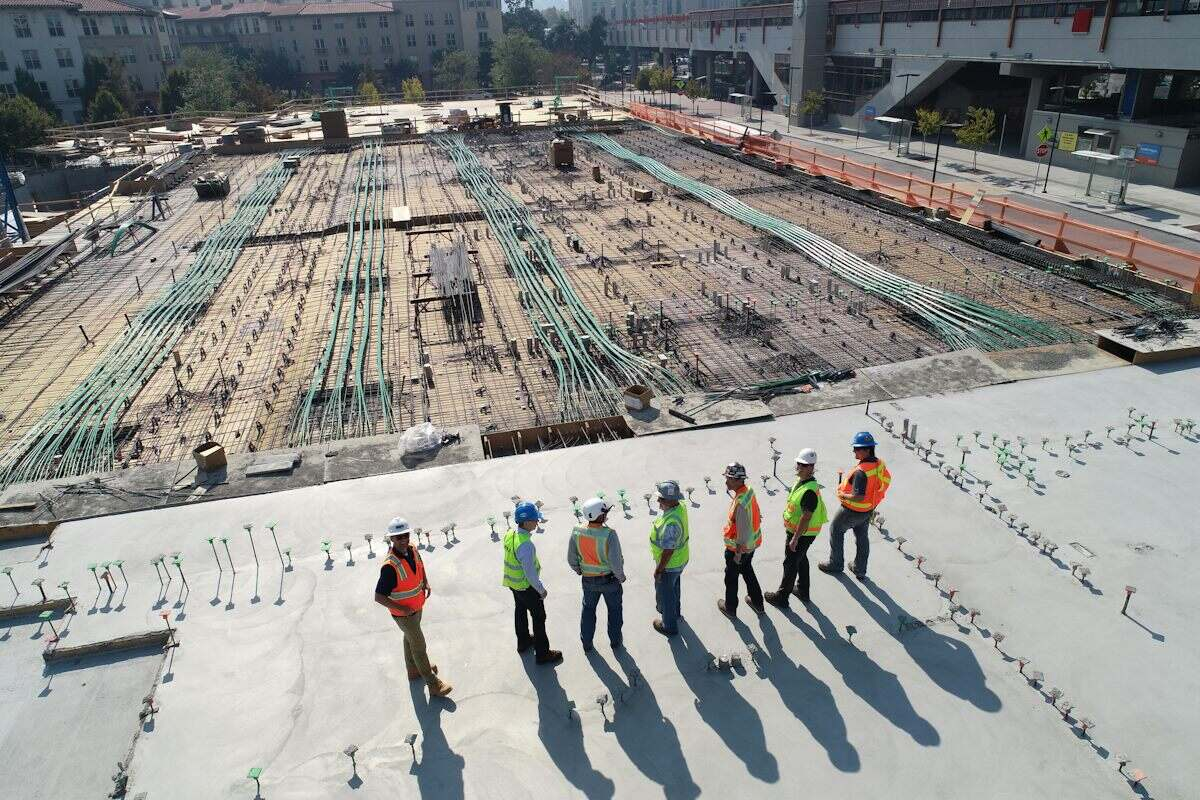
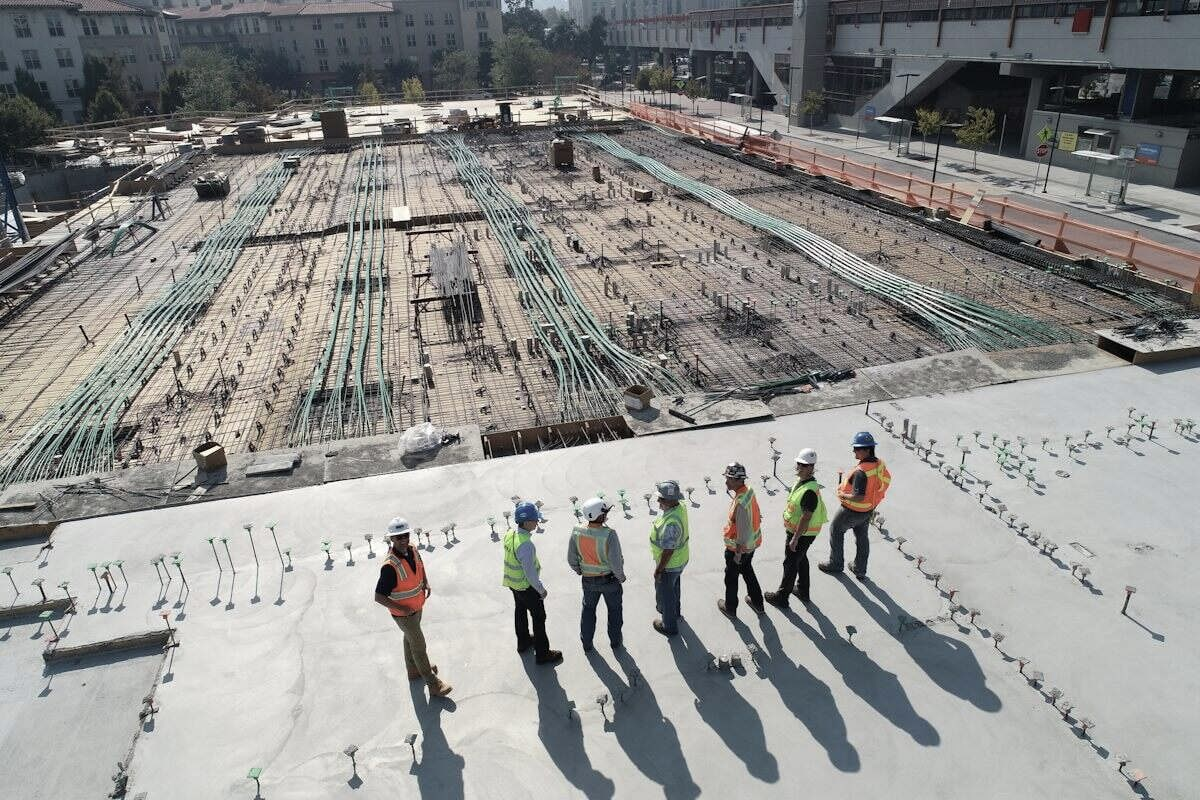
perf(mobile): frame-budget test, header theme by IntersectionObserver, baked saturation, menu without blur
- tests/mobile-perf.mjs (npm run test:perf): six routes at 390×844, CPU ×4, synthetic
  touch drag + fling; fails on site rAF/scroll callbacks during the gesture, p95 frame
  interval > 20 ms, long tasks, forced layouts, motion libraries requested or first-party
  JS > 10 KB gzip. Replaces tests/putnam-performance.mjs.
- menu.ts: header theme resolved by an IntersectionObserver band instead of
  getBoundingClientRect on every scroll event.
- Unsplash images carry `sat=` in the URL and the local hero JPGs are desaturated with
  sharp; every full-screen CSS `filter` is gone (map iframe keeps it on desktop only).
- Mobile menu overlay: opaque paper background instead of backdrop-filter blur.

diff --git a/src/styles/putnam.css b/src/styles/putnam.css
@@ -36,7 +36,7 @@
 .motion-pending .institutional-hero :is(.section-kicker, h1, .hero-lead) { opacity: 0; visibility: hidden; }
 .hero-frame { position: absolute; z-index: -2; inset: 0; width: 100%; height: 100%; margin: 0; overflow: hidden; background: var(--putnam-deep); contain: paint; }
 .hero-frame::after { position: absolute; inset: 0; content: ''; background: linear-gradient(180deg, rgba(0, 25, 23, 0.28) 0%, transparent 42%, rgba(0, 25, 23, 0.82) 100%), linear-gradient(90deg, rgba(0, 25, 23, 0.28), transparent 64%); }
-.hero-frame img { width: 100%; height: 115%; object-fit: cover; filter: saturate(0.65) sepia(0.08); transform: scale(1.02); backface-visibility: hidden; }
+.hero-frame img { width: 100%; height: 115%; object-fit: cover; transform: scale(1.02); backface-visibility: hidden; }
 .hero-index { display: inline-flex; min-height: 2.75rem; margin-top: 1rem; padding: 0; align-items: center; gap: 1.2rem; color: var(--putnam-paper); font-size: 0.68rem; letter-spacing: 0.11em; text-transform: uppercase; }
 .hero-index span { transition: transform 180ms ease; }
 .hero-index:hover span { transform: translateX(0.2rem); }
@@ -50,7 +50,7 @@
 .process-visual { position: absolute; z-index: 0; top: 7rem; right: clamp(1.25rem, 3vw, 3.5rem); bottom: 2rem; left: clamp(1.25rem, 3vw, 3.5rem); width: auto; overflow: hidden; background: var(--putnam-sand); }
 .process-media { position: absolute; inset: 0; margin: 0; opacity: 0; visibility: hidden; transition: opacity 500ms ease, visibility 500ms ease; }
 .process-media.is-active { opacity: 1; visibility: visible; }
-.process-media img { width: 100%; height: 100%; object-fit: cover; filter: saturate(0.62); }
+.process-media img { width: 100%; height: 100%; object-fit: cover; }
 .process-shade { position: absolute; z-index: 1; inset: 0; background: linear-gradient(90deg, rgba(0, 42, 39, 0.78) 0%, rgba(0, 42, 39, 0.48) 38%, transparent 70%), linear-gradient(180deg, transparent 62%, rgba(0, 42, 39, 0.32)); }
 .media-placeholder { display: grid; width: 100%; height: 100%; padding: 2rem; align-content: space-between; color: rgba(0, 58, 54, 0.72); background: var(--putnam-sand); }
 .media-placeholder span, .media-placeholder small { font-size: 0.68rem; font-weight: 500; letter-spacing: 0.14em; text-transform: uppercase; }
@@ -66,7 +66,6 @@
 .process-rail span { display: block; width: 100%; height: 2px; background: var(--putnam-paper); transform: scaleX(0); transform-origin: left center; }
 .process-markers { position: relative; margin-top: -100dvh; pointer-events: none; }
 .process-marker { height: 100dvh; }
-
 .principles { display: grid; grid-template-columns: repeat(12, minmax(0, 1fr)); gap: 2rem; padding: 8rem clamp(1.25rem, 3vw, 3.5rem) 9rem; color: var(--putnam-paper); background: var(--putnam-deep); }
 .principles > .section-kicker { grid-column: 1 / 4; }
 .principle { border-top: 1px solid rgba(244, 238, 223, 0.28); }
@@ -120,7 +119,7 @@
   .hero-lead { width: min(28rem, 92%); }
   .hero-index { margin-top: 1rem; }
   .hero-frame { position: absolute; inset: 0; width: 100%; height: 100%; margin: 0; }
-  .hero-frame img { height: 100%; filter: none; transform: none; }
+  .hero-frame img { height: 100%; transform: none; }
   .structural-line--hero { right: 14%; bottom: 17rem; left: -2rem; transform: rotate(-9deg); }
   .process-stage, .process-marker { height: 100dvh; }
   .process-markers { margin-top: -100dvh; }
@@ -129,7 +128,6 @@
   .process-heading h2 { max-width: 25rem; font-size: clamp(3rem, 14vw, 4.8rem); }
   .process-visual { top: 9rem; right: 1rem; bottom: 42%; left: 1rem; width: auto; }
   .process-media { transition-duration: 220ms; }
-  .process-media img { filter: none; }
   .process-shade { display: none; }
   .process-overlays { top: auto; right: 1rem; bottom: 5.5rem; left: 1rem; width: auto; color: var(--putnam-deep); transform: none; }
   .process-step { grid-template-columns: 2.8rem minmax(0, 1fr); }
@@ -161,3 +159,4 @@
 @media (prefers-reduced-motion: reduce) {
   .putnam-page [data-parallax], .putnam-page [data-reveal-group], .putnam-page [data-process-step], .putnam-page [data-line-progress] { transform: none !important; opacity: 1 !important; }
 }
+

diff --git a/src/scripts/menu.ts b/src/scripts/menu.ts
@@ -8,29 +8,34 @@ const header = document.querySelector<HTMLElement>('[data-auto-theme]');
 const logos = Array.from(header?.querySelectorAll<HTMLElement>('[data-logo]') ?? []);
 const showLogo = (light: boolean) => logos.forEach((logo) => { logo.hidden = logo.dataset.logo !== (light ? 'light' : 'dark'); });
 const themedSections = Array.from(document.querySelectorAll<HTMLElement>('[data-header-theme]'));
-let themeFrame = 0;
 
-const updateHeaderTheme = () => {
-  themeFrame = 0;
-  if (!header || logos.length === 0 || themedSections.length === 0) return;
-  const sampleY = header.getBoundingClientRect().bottom / 2;
-  const activeSection = themedSections.find((section) => {
-    const rect = section.getBoundingClientRect();
-    return rect.top <= sampleY && rect.bottom > sampleY;
-  });
-  if (!activeSection) return;
-  const light = activeSection.dataset.headerTheme === 'light';
+// The header takes the theme of whichever section sits behind its centre line. A thin
+// observation band there (3%–4% of the viewport) means the callback only runs when a
+// section boundary crosses it, never per scroll frame.
+let themeObserver: IntersectionObserver | null = null;
+const applyTheme = (section: HTMLElement) => {
+  if (!header || logos.length === 0) return;
+  const light = section.dataset.headerTheme === 'light';
   header.classList.toggle('site-header--light', light);
   showLogo(light);
 };
-
-const scheduleThemeUpdate = () => {
-  if (!themeFrame) themeFrame = window.requestAnimationFrame(updateHeaderTheme);
+const observeTheme = () => {
+  themeObserver?.disconnect();
+  if (!header || logos.length === 0 || themedSections.length === 0) return;
+  themeObserver = new IntersectionObserver((entries) => {
+    const active = entries.filter((entry) => entry.isIntersecting).sort((a, b) => b.boundingClientRect.top - a.boundingClientRect.top)[0];
+    if (active) applyTheme(active.target as HTMLElement);
+  }, { rootMargin: '-3% 0px -96% 0px', threshold: 0 });
+  themedSections.forEach((section) => themeObserver!.observe(section));
+};
+// One-off re-sample (menu close), not scroll-driven.
+const syncTheme = () => {
+  const sampleY = window.innerHeight * 0.035;
+  const section = themedSections.find((candidate) => { const rect = candidate.getBoundingClientRect(); return rect.top <= sampleY && rect.bottom > sampleY; });
+  if (section) applyTheme(section);
 };
 
-window.addEventListener('scroll', scheduleThemeUpdate, { passive: true });
-window.addEventListener('resize', scheduleThemeUpdate);
-updateHeaderTheme();
+observeTheme();
 
 const setMenuOpen = (open: boolean) => {
   if (open && !mobileViewport.matches) return;
@@ -55,7 +60,7 @@ const setMenuOpen = (open: boolean) => {
   if (!open && header) {
     header.classList.toggle('site-header--light', themeBeforeMenuLight);
     showLogo(themeBeforeMenuLight);
-    scheduleThemeUpdate();
+    syncTheme();
   }
 };
 

diff --git a/src/styles/noticias.css b/src/styles/noticias.css
@@ -23,7 +23,7 @@
 .nw-hero { position: relative; isolation: isolate; display: flex; flex-direction: column; justify-content: flex-end; gap: clamp(2rem, 4dvh, 3.5rem); height: 100dvh; overflow: hidden; padding: 7rem var(--gutter) 2.5rem; color: var(--putnam-paper); background: var(--putnam-deep); }
 .hero-frame { position: absolute; z-index: 0; inset: 0; margin: 0; overflow: hidden; background: var(--putnam-deep); }
 .hero-frame::after { position: absolute; inset: 0; content: ''; background: linear-gradient(180deg, rgba(0, 25, 23, 0.28) 0%, transparent 42%, rgba(0, 25, 23, 0.82) 100%), linear-gradient(90deg, rgba(0, 25, 23, 0.28), transparent 64%); }
-.hero-frame img { display: block; width: 100%; height: 100%; object-fit: cover; filter: saturate(0.65) sepia(0.08); transform: scale(1.02); }
+.hero-frame img { display: block; width: 100%; height: 100%; object-fit: cover; transform: scale(1.02); }
 .nw-hero .hero-copy { position: relative; z-index: 2; width: min(66rem, 78vw); }
 .nw-hero .hero-copy .section-kicker { margin-bottom: 1.5rem; }
 .nw-hero h1 { margin: 0; font-size: clamp(3.4rem, min(7.6vw, 13dvh), 8rem); font-weight: 500; line-height: 0.9; letter-spacing: -0.055em; text-shadow: 0 0.2rem 2rem rgba(0, 20, 18, 0.22); }
@@ -37,7 +37,7 @@
 /* Destacado */
 .nw-featured { padding: clamp(6rem, 10vw, 9rem) var(--gutter); align-items: end; background: var(--putnam-paper); }
 .nw-featured-media { grid-column: 1 / 8; aspect-ratio: 5 / 4; margin: 0; overflow: hidden; background: var(--putnam-sand); }
-.nw-featured-media img { display: block; width: 100%; height: 100%; object-fit: cover; filter: saturate(0.85); }
+.nw-featured-media img { display: block; width: 100%; height: 100%; object-fit: cover; }
 .media-placeholder { display: grid; width: 100%; height: 100%; padding: 2rem; align-content: space-between; color: rgba(0, 58, 54, 0.72); background: var(--putnam-sand); }
 .media-placeholder span, .media-placeholder small { font-size: 0.68rem; font-weight: 500; letter-spacing: 0.14em; text-transform: uppercase; }
 .media-placeholder b { align-self: center; justify-self: center; font-size: clamp(6rem, 13vw, 13rem); font-weight: 500; line-height: 1; letter-spacing: -0.07em; opacity: 0.14; }
@@ -108,3 +108,4 @@ a.index-row:hover i, a.index-row:focus-visible i { transform: translate(0.2rem, 
 @media (prefers-reduced-motion: reduce) {
   .noticias-page [data-parallax], .noticias-page [data-reveal-group], .noticias-page .line > span, .noticias-page .fade-up { opacity: 1 !important; transform: none !important; }
 }
+

diff --git a/src/styles/eredita.css b/src/styles/eredita.css
@@ -48,7 +48,7 @@
 .ed-gallery .section-heading { margin-bottom: clamp(3rem, 6vw, 5rem); }
 .ed-masonry { column-count: 1; column-gap: 1.25rem; }
 .ed-masonry-item { position: relative; display: block; margin: 0 0 1.25rem; break-inside: avoid; overflow: hidden; }
-.ed-masonry-item img { display: block; width: 100%; height: auto; filter: saturate(0.92); transition: transform 500ms ease; }
+.ed-masonry-item img { display: block; width: 100%; height: auto; transition: transform 500ms ease; }
 .ed-masonry-item:hover img { transform: scale(1.035); }
 .ed-masonry-item figcaption { position: absolute; left: 0.9rem; bottom: 0.8rem; padding: 0.3rem 0.6rem; font-size: 0.62rem; font-weight: 600; letter-spacing: 0.12em; text-transform: uppercase; color: var(--ed-paper); background: rgba(6, 10, 9, 0.55); opacity: 0; transform: translateY(0.4rem); transition: opacity 220ms ease, transform 220ms ease; }
 .ed-masonry-item:hover figcaption, .ed-masonry-item:focus-within figcaption { opacity: 1; transform: translateY(0); }
@@ -68,7 +68,7 @@
 .ed-h-intro-copy { max-width: 28rem; margin: 0; font-size: 1.05rem; line-height: 1.6; color: rgba(0, 58, 54, 0.75); }
 .ed-h-hint { font-size: 0.68rem; font-weight: 600; letter-spacing: 0.14em; text-transform: uppercase; color: rgba(0, 58, 54, 0.5); }
 .ed-h-media { position: relative; margin: 0; height: 100%; overflow: hidden; background: var(--ed-sand); }
-.ed-h-media img { width: 100%; height: 100%; object-fit: cover; filter: saturate(0.85); }
+.ed-h-media img { width: 100%; height: 100%; object-fit: cover; }
 .ed-h-copy { display: flex; flex-direction: column; justify-content: center; gap: 1.1rem; padding: clamp(2rem, 4vw, 4.5rem); color: var(--ed-paper); background: var(--ed-ink); }
 .ed-h-copy-head { display: flex; align-items: center; justify-content: flex-start; gap: 1rem; max-width: 30rem; }
 .ed-h-index { font-size: 0.72rem; font-weight: 600; letter-spacing: 0.14em; color: rgba(244, 238, 223, 0.55); }
@@ -167,3 +167,4 @@
   .ed-h-media { height: 70vh; }
   .ed-h-copy { padding: clamp(2rem, 5vw, 3rem) clamp(1.25rem, 3vw, 3.5rem) clamp(3rem, 6vw, 4rem); }
 }
+

diff --git a/src/styles/contacto.css b/src/styles/contacto.css
@@ -19,7 +19,7 @@
 .ct-hero { position: relative; isolation: isolate; display: flex; flex-direction: column; justify-content: flex-end; gap: clamp(2rem, 4dvh, 3.5rem); height: 100dvh; overflow: hidden; padding: 7rem var(--gutter) 2.5rem; color: var(--putnam-paper); background: var(--putnam-deep); }
 .hero-frame { position: absolute; z-index: 0; top: 0; right: 0; left: 0; height: 100dvh; margin: 0; overflow: hidden; background: var(--putnam-deep); }
 .hero-frame::after { position: absolute; inset: 0; content: ''; background: linear-gradient(180deg, rgba(0, 25, 23, 0.28) 0%, transparent 42%, rgba(0, 25, 23, 0.82) 100%), linear-gradient(90deg, rgba(0, 25, 23, 0.28), transparent 64%); }
-.hero-frame img { display: block; width: 100%; height: 100dvh; object-fit: cover; filter: saturate(0.65) sepia(0.08); transform: scale(1.02); }
+.hero-frame img { display: block; width: 100%; height: 100dvh; object-fit: cover; transform: scale(1.02); }
 .ct-hero .hero-copy { position: relative; z-index: 2; width: min(66rem, 78vw); }
 .ct-hero .hero-copy .section-kicker { margin-bottom: 1.5rem; }
 .ct-hero h1 { margin: 0; font-size: clamp(3.4rem, min(7.6vw, 13dvh), 8rem); font-weight: 500; line-height: 0.9; letter-spacing: -0.055em; text-shadow: 0 0.2rem 2rem rgba(0, 20, 18, 0.22); }
@@ -137,6 +137,8 @@ a.index-row:hover i, a.index-row:focus-visible i { transform: translate(0.2rem, 
 }
 
 @media (max-width: 767px) {
+  /* A filtered iframe re-rasterises on every scroll frame on phones. */
+  .ct-map iframe { filter: none; }
   .ct-hero { padding: 6rem 1rem 2rem; }
   .ct-hero .hero-copy { width: auto; }
   .ct-hero h1 { font-size: clamp(3.3rem, 15vw, 5.2rem); line-height: 0.92; }
@@ -171,3 +173,4 @@ a.index-row:hover i, a.index-row:focus-visible i { transform: translate(0.2rem, 
   .contacto-page .reason { min-height: 0; padding: 3rem 0; }
   .contacto-page .reason h3 { opacity: 1; }
 }
+

diff --git a/src/lib/images.ts b/src/lib/images.ts
@@ -1,17 +1,26 @@
 // Remote image variants (Unsplash + Contentful Images API): width/quality per breakpoint, modern format.
-export const remoteImage = (src: string, width: number, quality: number) => {
+// Tonal treatment (desaturation) is baked into the URL where the CDN supports it so no
+// full-screen CSS `filter` is needed at render time. Unsplash (imgix) takes `sat` in
+// -100..100; Contentful has no equivalent and is served as is.
+export const remoteImage = (src: string, width: number, quality: number, sat = 0) => {
   const url = new URL(src);
   url.searchParams.set('w', String(width));
   url.searchParams.set('q', String(quality));
   if (url.hostname === 'images.ctfassets.net') {
     url.searchParams.set('fm', 'webp');
     url.searchParams.delete('fl');
+  } else if (sat) {
+    url.searchParams.set('sat', String(sat));
   }
   return url.toString();
 };
 
-export const remoteSrcset = (src: string, widths: readonly number[], quality: number) =>
-  widths.map((width) => `${remoteImage(src, width, quality)} ${width}w`).join(', ');
+export const remoteSrcset = (src: string, widths: readonly number[], quality: number, sat = 0) =>
+  widths.map((width) => `${remoteImage(src, width, quality, sat)} ${width}w`).join(', ');
 
 export const HERO_WIDTHS = [640, 960, 1280, 1600, 2000] as const;
 export const CARD_WIDTHS = [480, 720, 960, 1200] as const;
+
+// `sat` equivalents of the former CSS filters: saturate(0.78) → -22, saturate(0.65) → -35,
+// saturate(0.62) → -38, saturate(0.85) → -15, saturate(0.92) → -8.
+export const SAT = { panel: -22, hero: -35, process: -38, card: -15, gallery: -8 } as const;

diff --git a/src/styles/unete.css b/src/styles/unete.css
@@ -18,7 +18,7 @@
 .un-hero { position: relative; isolation: isolate; display: flex; flex-direction: column; justify-content: flex-end; gap: clamp(2rem, 4dvh, 3.5rem); height: 100dvh; overflow: hidden; padding: 7rem var(--gutter) 2.5rem; color: var(--putnam-paper); background: var(--putnam-deep); }
 .hero-frame { position: absolute; z-index: 0; top: 0; right: 0; left: 0; height: 100dvh; margin: 0; overflow: hidden; background: var(--putnam-deep); }
 .hero-frame::after { position: absolute; inset: 0; content: ''; background: linear-gradient(180deg, rgba(0, 25, 23, 0.28) 0%, transparent 42%, rgba(0, 25, 23, 0.82) 100%), linear-gradient(90deg, rgba(0, 25, 23, 0.28), transparent 64%); }
-.hero-frame img { display: block; width: 100%; height: 112dvh; object-fit: cover; filter: saturate(0.65) sepia(0.08); transform: translateY(-6dvh) scale(1.02); }
+.hero-frame img { display: block; width: 100%; height: 112dvh; object-fit: cover; transform: translateY(-6dvh) scale(1.02); }
 .un-hero .hero-copy { position: relative; z-index: 2; width: min(66rem, 78vw); }
 .un-hero .hero-copy .section-kicker { margin-bottom: 1.5rem; }
 .un-hero h1 { margin: 0; font-size: clamp(3.4rem, min(7.6vw, 13dvh), 8rem); font-weight: 500; line-height: 0.9; letter-spacing: -0.055em; text-shadow: 0 0.2rem 2rem rgba(0, 20, 18, 0.22); }
@@ -160,3 +160,4 @@ a.index-row:hover i, a.index-row:focus-visible i { transform: translate(0.2rem, 
   .unete-page .trait { min-height: 0; padding: 3rem 0; }
   .unete-page .trait h3 { opacity: 1; }
 }
+

diff --git a/src/styles/global.css b/src/styles/global.css
@@ -152,7 +152,7 @@ button { font: inherit; }
   height: 100%;
 }
 
-.panel-media { z-index: -2; object-fit: cover; transform: scale(1.04); filter: saturate(0.78); }
+.panel-media { z-index: -2; object-fit: cover; transform: scale(1.04); }
 .panel-shade {
   z-index: -1;
   background:
@@ -276,9 +276,9 @@ button { font: inherit; }
     overflow-y: auto;
     padding: 7.5rem 2rem 2rem;
     color: var(--putnam-ink);
-    background: rgba(244, 238, 223, 0.84);
+    /* Near-opaque instead of blurred: a full-screen backdrop-filter re-blurs every frame of the open/close transition. */
+    background: rgba(244, 238, 223, 0.97);
     box-shadow: 0 0 3rem rgba(0, 0, 0, 0.12);
-    backdrop-filter: blur(18px);
     opacity: 0;
     visibility: hidden;
     pointer-events: none;
